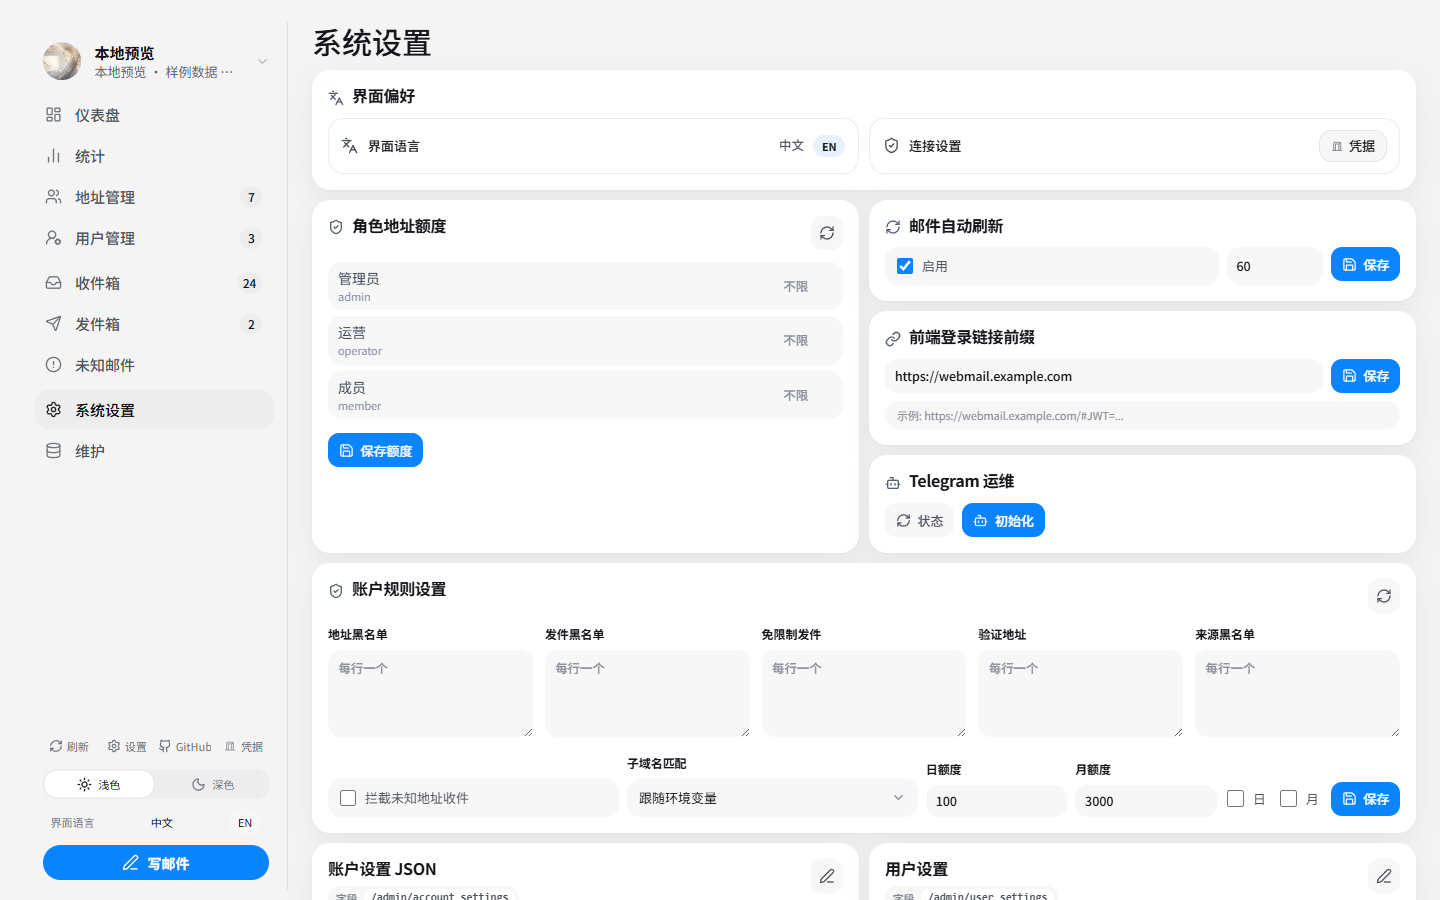
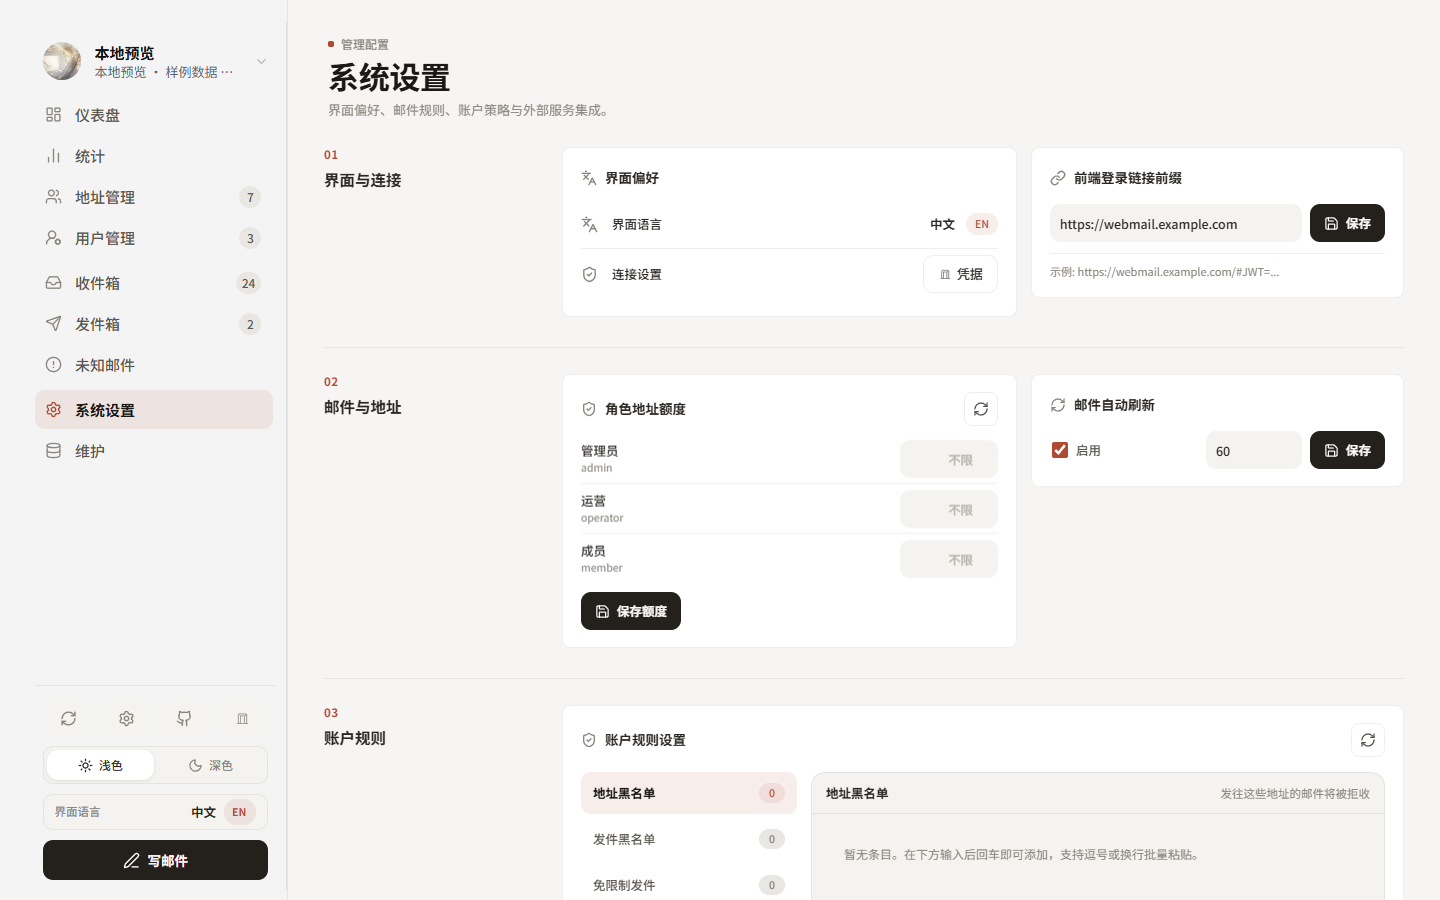
release: prepare v0.3.0 frontend refresh
Refresh the README gallery with the new Admin interface, document the Paper, Ink & Sealing Wax redesign, and synchronize package metadata and release notes for v0.3.0.

diff --git a/README.md b/README.md
@@ -20,6 +20,15 @@
 
 > 这是可复用的公开版前端仓库，不包含任何部署者的 Worker 地址、Cloudflare 资源 ID、域名、账号、密码、Token、密钥或生产运维记录。所有私有值都在部署平台或浏览器中注入。
 
+## v0.3.0 · 大前端更新
+
+管理后台完成一次完整的视觉与工作区重构，采用 **Paper, Ink & Sealing Wax** 设计语言：暖灰纸面、墨黑主操作与陶土红强调色贯穿仪表盘、统计、地址、用户、收发件、系统设置和维护页面。
+
+- 桌面端重新组织信息层级、指标卡片、管理表格和工具面板。
+- 平板与移动端补齐专用布局、底部导航、快捷操作菜单和无横向溢出体验。
+- 深色模式、表单控件、分页、弹层和代码面板使用统一的圆角与表面规范。
+- 保持现有 Worker API、Pages 运行时变量和 KV 数据结构不变，可从旧版本平滑升级。
+
 ## 项目组成
 
 | 应用 | 目录 | 作用 |
@@ -177,14 +186,41 @@ WEBMAIL_RUNTIME_URL=https://webmail.example.com npm run check:cloudflare:runtime
 
 ## 界面预览
 
+### Admin · Paper, Ink & Sealing Wax
+
 <table>
   <tr>
-    <td width="50%"><img src="docs/screenshots/admin-dashboard.png" alt="Admin dashboard" /></td>
-    <td width="50%"><img src="docs/screenshots/admin-inbox.png" alt="Admin inbox" /></td>
+    <td width="50%">
+      <strong>运营概览</strong><br />
+      <sub>邮件流量、地址活跃、站点规模与能力状态。</sub><br /><br />
+      <img src="docs/screenshots/admin-dashboard.png" alt="Admin 运营概览" />
+    </td>
+    <td width="50%">
+      <strong>收件箱工作区</strong><br />
+      <sub>高密度邮件列表、阅读器与快捷操作。</sub><br /><br />
+      <img src="docs/screenshots/admin-inbox.png" alt="Admin 收件箱工作区" />
+    </td>
   </tr>
   <tr>
-    <td width="50%"><img src="docs/screenshots/webmail-login.png" alt="Webmail login" /></td>
-    <td width="50%"><img src="docs/screenshots/webmail-share.png" alt="Webmail share" /></td>
+    <td width="50%">
+      <strong>系统设置</strong><br />
+      <sub>界面、连接、邮件规则和账户策略分区管理。</sub><br /><br />
+      <img src="docs/screenshots/admin-connection-settings.png" alt="Admin 系统设置" />
+    </td>
+    <td width="50%" align="center">
+      <strong>移动端地址管理</strong><br />
+      <sub>响应式列表、底部导航和地址快捷操作。</sub><br /><br />
+      <img src="docs/screenshots/mobile-address-actions.png" alt="Admin 移动端地址管理" width="300" />
+    </td>
+  </tr>
+</table>
+
+### Webmail · 登录与分享
+
+<table>
+  <tr>
+    <td width="50%"><img src="docs/screenshots/webmail-login.png" alt="Webmail 邮箱登录" /></td>
+    <td width="50%"><img src="docs/screenshots/webmail-share.png" alt="Webmail 多邮箱分享" /></td>
   </tr>
 </table>
 

diff --git a/CHANGELOG.md b/CHANGELOG.md
@@ -4,9 +4,26 @@
 
 ## [Unreleased]
 
+## [0.3.0] - 2026-07-25
+
+### Added
+
+- README 新增 Admin 运营概览、收件箱、系统设置和移动端地址管理的新版界面截图。
+
 ### Changed
 
 - Admin 管理后台采用 "Paper, Ink & Sealing Wax" 视觉主题，并统一仪表盘、统计、地址、用户、写信、设置和维护页面在桌面、平板、移动端及深色模式下的布局与控件样式。
+- 仪表盘重组邮件流量、地址活跃、站点规模和能力状态，管理工作区统一表格、分页、筛选、弹层与工具面板视觉层级。
+- README 增加 `v0.3.0` 大前端更新说明，并重排 Admin 与 Webmail 界面预览。
+
+### Fixed
+
+- 修复旧样式覆盖新版主题、平板表格横向溢出、移动端操作布局和深色模式表面不一致等问题。
+
+### Compatibility
+
+- 沿用 `v0.2.0` 支持的 Cloudflare Temp Mail / `cloudflare_temp_email` API 行为；没有新增 Pages 变量、Secret、KV binding 或数据迁移要求。
+- 本版本仅更新前端与展示资源，可直接回滚到 `v0.2.0` 的静态部署。
 
 ## [0.2.0] - 2026-07-15
 
@@ -35,6 +52,7 @@
 - Loven7 Mail Admin 与 Webmail 双应用结构。
 - Cloudflare Pages Functions、分享 KV、PWA 和基础 CI/发布脚本。
 
-[Unreleased]: https://github.com/Lur1N77777/loven7-mail-cloudflare-suite/compare/v0.2.0...HEAD
+[Unreleased]: https://github.com/Lur1N77777/loven7-mail-cloudflare-suite/compare/v0.3.0...HEAD
+[0.3.0]: https://github.com/Lur1N77777/loven7-mail-cloudflare-suite/compare/v0.2.0...v0.3.0
 [0.2.0]: https://github.com/Lur1N77777/loven7-mail-cloudflare-suite/compare/v0.1.0...v0.2.0
 [0.1.0]: https://github.com/Lur1N77777/loven7-mail-cloudflare-suite/releases/tag/v0.1.0

diff --git a/docs/VERSIONING.md b/docs/VERSIONING.md
@@ -38,13 +38,13 @@ Release 附件只包含 Git 可追踪的公开源码与校验值，不能打包 
 自用部署不需要把私人差异提交到公开仓库。建议用部署元数据记录：
 
 ```text
-public_version = v0.2.0
+public_version = v0.3.0
 public_commit = <commit-sha>
 private_revision = 3
 deployed_at = <timestamp>
 ```
 
-如果必须创建私有源码提交，使用独立私有仓库和后缀，例如 `v0.2.0-private.3`。不要把私有 tag 或 Release 发布到公开仓库。
+如果必须创建私有源码提交，使用独立私有仓库和后缀，例如 `v0.3.0-private.3`。不要把私有 tag 或 Release 发布到公开仓库。
 
 ## 升级顺序
 
